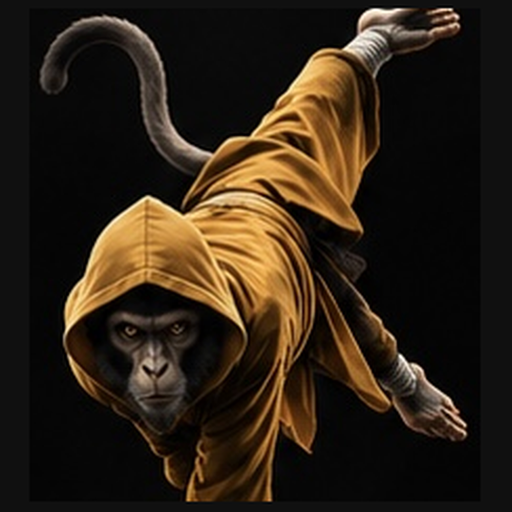
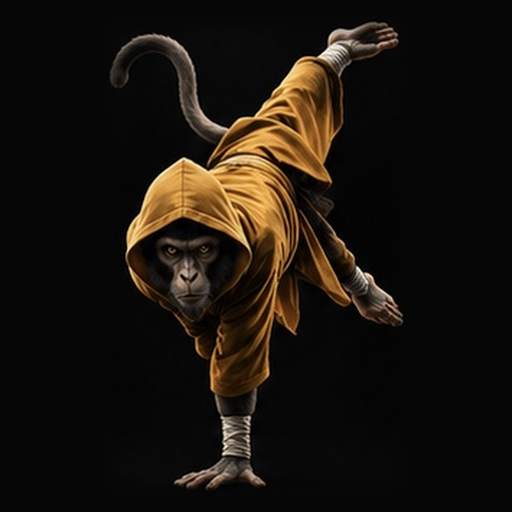
Иконка: обезьяна целиком
Claude-Session: https://claude.ai/code/session_01G4Q4sg1nv2NB9e5wi314Hf

diff --git a/sw.js b/sw.js
@@ -1,5 +1,5 @@
 // MonkFlow: офлайн-кэш. При обновлении меняй VERSION (build.py делает это сам).
-const VERSION="mf-20261025171742";
+const VERSION="mf-20261025171912";
 const SHELL=["./","index.html","manifest.webmanifest","icon-192.png","icon-512.png","apple-touch-icon.png","seed.json","fonts/archivo-black-latin-400-normal.woff2","fonts/cinzel-latin-600-normal.woff2","fonts/cinzel-latin-700-normal.woff2","fonts/ibm-plex-mono-cyrillic-500-normal.woff2","fonts/ibm-plex-mono-cyrillic-600-normal.woff2","fonts/ibm-plex-mono-latin-500-normal.woff2","fonts/ibm-plex-mono-latin-600-normal.woff2","fonts/ibm-plex-sans-cyrillic-400-normal.woff2","fonts/ibm-plex-sans-cyrillic-500-normal.woff2","fonts/ibm-plex-sans-cyrillic-600-normal.woff2","fonts/ibm-plex-sans-cyrillic-700-normal.woff2","fonts/ibm-plex-sans-latin-400-normal.woff2","fonts/ibm-plex-sans-latin-500-normal.woff2","fonts/ibm-plex-sans-latin-600-normal.woff2","fonts/ibm-plex-sans-latin-700-normal.woff2","fonts/manrope-cyrillic-400-normal.woff2","fonts/manrope-cyrillic-500-normal.woff2","fonts/manrope-cyrillic-600-normal.woff2","fonts/manrope-cyrillic-700-normal.woff2","fonts/manrope-latin-400-normal.woff2","fonts/manrope-latin-500-normal.woff2","fonts/manrope-latin-600-normal.woff2","fonts/manrope-latin-700-normal.woff2"];
 self.addEventListener("install",e=>{e.waitUntil(caches.open(VERSION).then(c=>c.addAll(SHELL)).then(()=>self.skipWaiting()))});
 self.addEventListener("activate",e=>{e.waitUntil(caches.keys().then(ks=>Promise.all(ks.filter(k=>k!==VERSION).map(k=>caches.delete(k)))).then(()=>self.clients.claim()))});

diff --git a/tools/build.py b/tools/build.py
@@ -36,7 +36,7 @@ page=f'''<!doctype html>
 </html>'''
 open('index.html','w').write(page)
 open('sw.js','w').write(open('src/sw.js').read().replace('__VERSION__',ver).replace('"seed.json"]','"seed.json",'+','.join(f'"{f}"' for f in FONTS)+']'))
-json.dump({"name":"MonkFlow","short_name":"MonkFlow","start_url":"./","scope":"./","display":"standalone","orientation":"portrait","background_color":"#101010","theme_color":"#101010","lang":"ru",
+json.dump({"name":"MonkFlow","short_name":"MonkFlow","start_url":"./","scope":"./","display":"standalone","orientation":"portrait","background_color":"#060606","theme_color":"#060606","lang":"ru",
   "icons":[{"src":"icon-192.png","sizes":"192x192","type":"image/png"},{"src":"icon-512.png","sizes":"512x512","type":"image/png"},{"src":"icon-512.png","sizes":"512x512","type":"image/png","purpose":"maskable"}]},open('manifest.webmanifest','w'),ensure_ascii=False)
 F='/usr/share/fonts/truetype/dejavu/DejaVuSerif-Bold.ttf'
 def icon(n,path):
